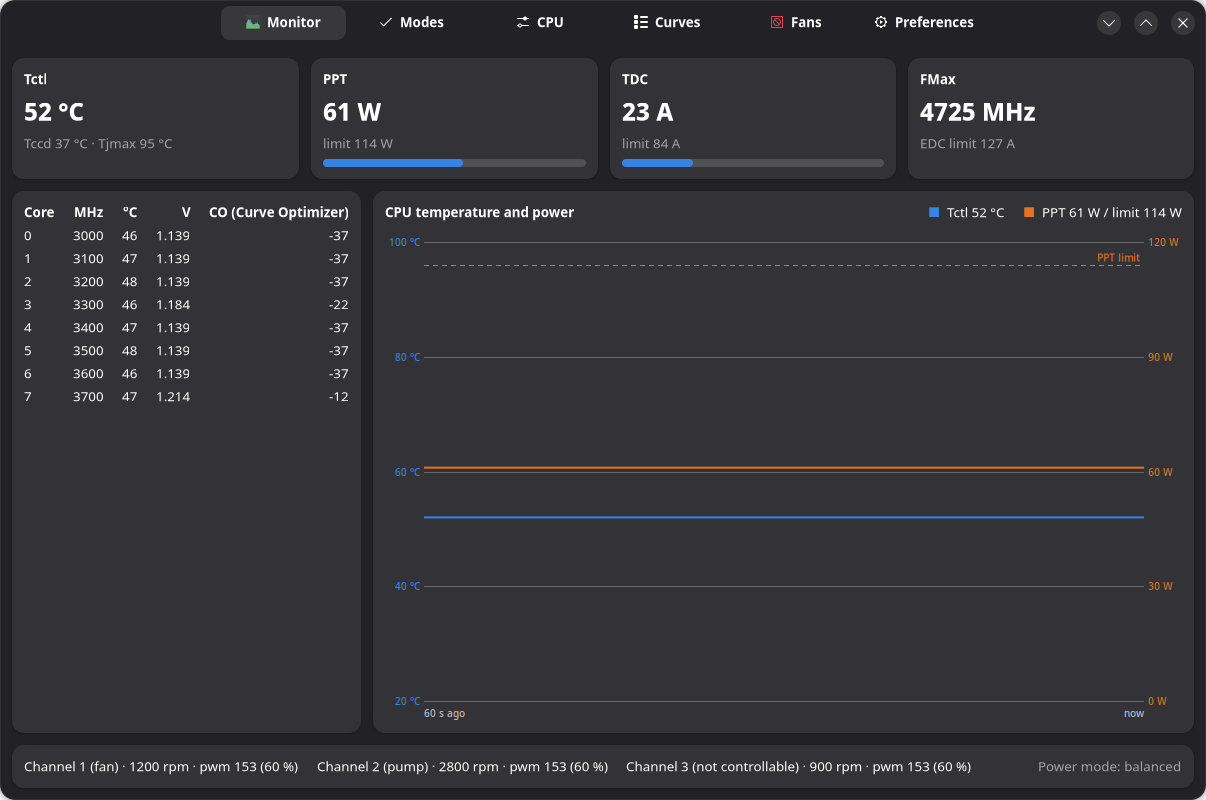
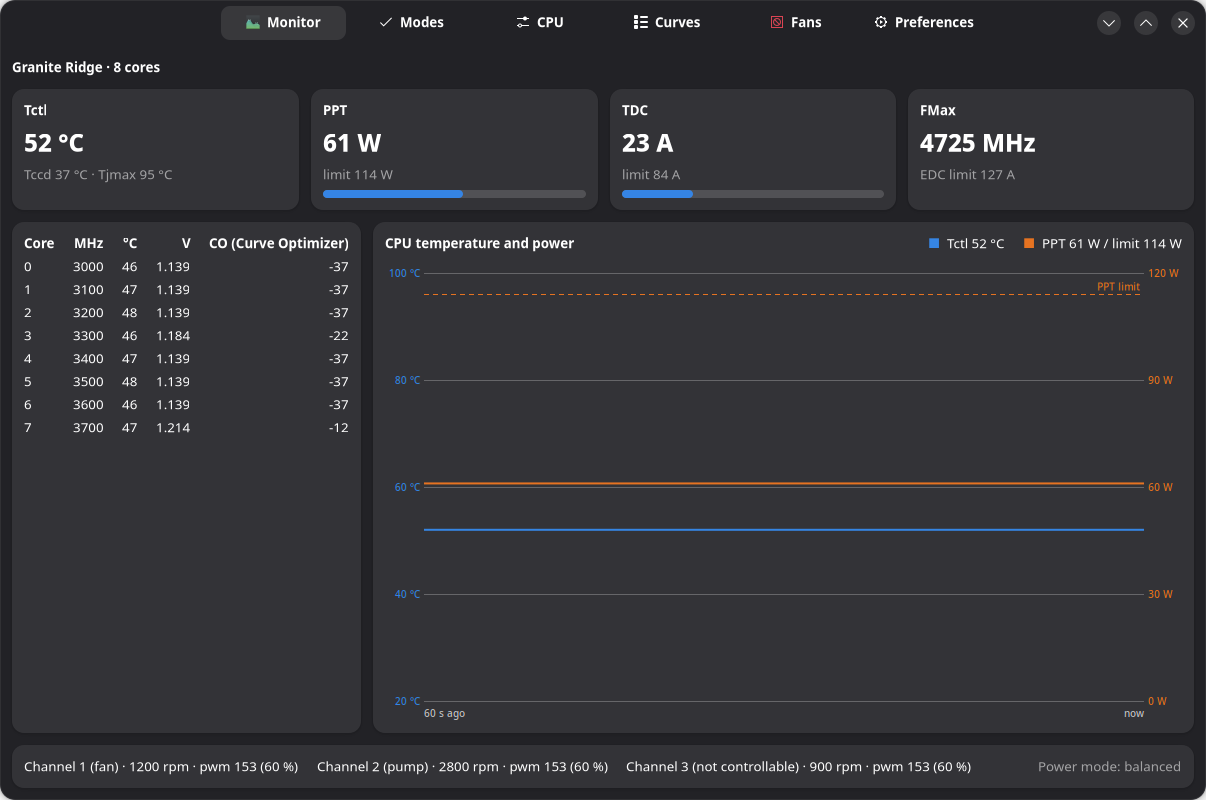
fix: calibrations on CPUs without per-core voltages, Auto refused without PM power limits; docs and screenshots for step 20
Found while testing the GUI on the fake variants: autotune stored {"0": None} as reference sample
when the PM table has no verified per-core layout (real 9950X/9900X 0x620205, Raphael, no PM
table) and at_mv_per_step then crashed; the reference is now omitted and the slope is simply
unknown. Auto's knee sweeps the PPT, so it is refused where the PM limits are unknown (Raphael, no
PM table) with a hint to use Eco or Boost. The fake returns per-core voltages only for a verified
layout, like a real CPU, so the selftest covers both paths (an Eco calibration without voltages on
the no-PM variant). The GUI smoke skips Auto there. README: Monitor header with family and active
cores, how the CO finds the physical core (fuses, SMN reads only); screenshots regenerated.

diff --git a/README.md b/README.md
@@ -66,9 +66,10 @@ needs root asks for the administrator password once per session; "Stop asking fo
 in Preferences removes even that one. The screenshots below come from the fake backend
 (`make screenshots`), so the values are illustrative.
 
-**Monitor** — Tctl and per-core temperature, PPT and TDC against their limits, MHz, voltage and
-Curve Optimizer per core, a 60 s graph of Tctl (blue, °C) and PPT (orange, W, its limit dashed),
-fan speeds and power mode.
+**Monitor** — the CPU family and its active cores on top (with a note when the family has not
+been verified on hardware yet), Tctl and per-core temperature, PPT and TDC against their limits,
+MHz, voltage and Curve Optimizer per core, a 60 s graph of Tctl (blue, °C) and PPT (orange, W, its
+limit dashed), fan speeds and power mode. Every per-core view lists only the active cores.
 
 ![Monitor page](docs/screenshots/monitor.png)
 
@@ -256,6 +257,11 @@ the BIOS.
   every value. Without a baseline of this boot no CPU write is accepted.
 - Every write is verified by reading the value back; if it does not match, one retry, then
   restore of the base value and error.
+- The Curve Optimizer addresses a core by its physical position in the CCD, while Linux lists
+  only the enabled cores. With complete CCDs (8 cores) the positions are 0–7 in order. With
+  disabled cores (e.g. 9600X, 9900X, 7600X) the positions come from the core fuses, read through
+  the driver's `smn` file — reads only, only at the fuse addresses of the CPU family — and are used
+  only if they agree with the system topology; otherwise the per-core CO is refused.
 - **Crash-guard**: `ryzenctl.service` writes the markers `dirty` (boot in progress) and `active`
   (state modified) *before* touching the SMU and removes `dirty` at clean shutdown. If both
   exist at the next boot, the system crashed: the CPU profile is **not reapplied**,

diff --git a/CLAUDE.md b/CLAUDE.md
@@ -48,7 +48,9 @@ notification; Preferences tab; unknown fan channels in a collapsed section. Tag 
 2 CCDs, no PM table, 2×6 cores, Raphael). Step 19: Raphael (Zen 4, `verified: False`: CO and FMax,
 no PM map → limits refused); CCDs with disabled cores: the physical slots come from the core fuses
 (SMN reads, ZenStates-Core addresses; `core_map`), refused only if unreadable or inconsistent;
-Vermeer/Matisse left out for lack of reliable IDs/maps. Next: phase 5 steps 20–21, phase 6 tray icon
+Vermeer/Matisse left out for lack of reliable IDs/maps. Step 20: the GUI shows and uses only the
+active cores (rows from `status.cores`/telemetry), the family and core count on the Monitor, a note
+for families not verified; Auto refused where the PM limits are unknown (its knee needs the PPT). Next: phase 5 step 21 (processors table in the README), phase 6 tray icon
 (StatusNotifierItem + dbusmenu via Gio, `ryzen-control --tray`, quick commands), phase 7
 deb/PKGBUILD.
 
